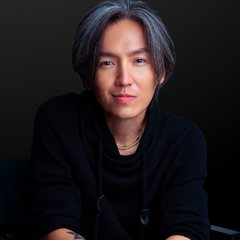
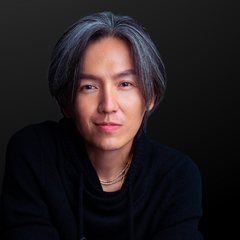
Add files via upload

diff --git a/index.html b/index.html
@@ -233,7 +233,14 @@ footer .w{display:flex;justify-content:space-between;gap:12px;flex-wrap:wrap}
 <article class="lc" id="lc-p-bao"><div class="lp"><div class="av"><img alt="Baobaochow" loading="lazy" src="img/sp-p-baobaochow.jpg"/></div><div><h4>Baobaochow</h4><small>Photographer</small></div></div><div class="lm"><div class="ltag">True Portrait</div><h5>Natural Light Portraits</h5><p>Good portraits start with finding the right light. Learn to spot soft, flattering light, place your subject in it, and keep skin tones and mood true to the moment.</p></div><div class="lr"><div class="ld"><b>15 NOV</b></div><div class="lt2">3.00PM&ndash;7.00PM</div><div class="ll">Robert&rsquo;s Wooden House, Sibu, Sarawak</div></div></article>
 <div class="lreg"><a class="btn" href="https://tinyurl.com/5ncrpnzc" rel="noopener" target="_blank">Register Here</a></div>
 </div></div>
-
+<div class="lt" id="zoom"><div class="eyebrow">Zoom Theme &middot; 21&ndash;22 Nov 2026</div><h3>True Zoom</h3><p class="sub">Five masterclasses reach further, from distant landscapes and wildlife to people caught at the peak of the moment.</p><div class="lcs">
+<article class="lc" id="lc-z-bojio"><div class="lp"><div class="av"><img alt="Bojio杰哥" loading="lazy" src="img/sp-z-bojio.jpg"/></div><div><h4>Bojio杰哥</h4><small>Photographer</small></div></div><div class="lm"><div class="ltag">True Zoom</div><h5>Get Closer Without Moving</h5><p>Some subjects are too far, too busy or too shy to walk up to. Learn to use zoom to isolate what matters, keep the frame clean, and capture natural moments from a distance without disturbing the scene.</p></div><div class="lr"><div class="ld"><b>21 NOV</b></div><div class="lt2">10.00AM&ndash;2.00PM</div><div class="ll">Zoo Johor + Sama-sama Cuisine, Johor Bahru</div></div></article>
+<article class="lc" id="lc-z-reez"><div class="lp"><div class="av"><img alt="Reez" loading="lazy" src="img/sp-z-reez.jpg"/></div><div><h4>Reez</h4><small>Photographer</small></div></div><div class="lm"><div class="ltag">True Zoom</div><h5>Seeing Landscapes Differently</h5><p>Go beyond the wide shot. Learn to use zoom and different focal lengths to bring distant scenery closer, highlight hidden details, and create stronger landscape compositions.</p></div><div class="lr"><div class="ld"><b>21 NOV</b></div><div class="lt2">2.00PM&ndash;6.00PM</div><div class="ll">Pavilion Bukit Bintang + Lookout Point @ Changkat Tunku, Kuala Lumpur</div></div></article>
+<article class="lc" id="lc-z-kelvin"><div class="lp"><div class="av"><img alt="Kelvin Chan" loading="lazy" src="img/sp-c-kelvin.jpg"/></div><div><h4>Kelvin Chan</h4><small>Photographer</small></div></div><div class="lm"><div class="ltag">True Zoom</div><h5>See Further, Frame Better</h5><p>From a bird on a branch to a boat on the river, zoom brings distant subjects into a clean, simple frame. Learn to spot what is worth reaching for, compose it with intent, and keep detail sharp at a distance.</p></div><div class="lr"><div class="ld"><b>21 NOV</b></div><div class="lt2">3.00PM&ndash;6.30PM</div><div class="ll">GoldenBay Hotel Bintulu</div></div></article>
+<article class="lc" id="lc-z-haziq"><div class="lp"><div class="av"><img alt="Haziq Zuki" loading="lazy" src="img/sp-haziqzuki.jpg"/></div><div><h4>Haziq Zuki</h4><small>Photographer</small></div></div><div class="lm"><div class="ltag">True Zoom</div><h5>Catching the Moment</h5><p>Zoom lets you capture people in action without stepping into the scene. Learn to anticipate movement, track your subject from a distance and press the shutter at the peak of the moment.</p></div><div class="lr"><div class="ld"><b>21 NOV</b></div><div class="lt2">4.00PM&ndash;8.30PM</div><div class="ll">Ferringhi Heart Beach Club, Penang</div></div></article>
+<article class="lc" id="lc-z-wanxin"><div class="lp"><div class="av"><img alt="Wan Xin" loading="lazy" src="img/sp-z-wanxin.jpg"/></div><div><h4>Wan Xin</h4><small>Photographer</small></div></div><div class="lm"><div class="ltag">True Zoom</div><h5>Zoom Into Details</h5><p>Sometimes, the best way to capture a moment is to get closer without being seen. Zoom allows us to observe quietly, anticipate the moment, and preserve it just as it happens.</p></div><div class="lr"><div class="ld"><b>22 NOV</b></div><div class="lt2">9.00AM&ndash;1.00PM</div><div class="ll">Tasik Cermin Ipoh</div></div></article>
+<div class="lreg"><a class="btn" href="https://tinyurl.com/5ncrpnzc" rel="noopener" target="_blank">Register Here</a></div>
+</div></div>
 
 </div></section>
 <section class="snap" id="snap"><div class="w">
@@ -476,12 +483,21 @@ var DATA={"content/copy.json":{
     },
     {
       "date": "2026-11-21",
-      "end_date": "",
+      "end_date": "2026-11-22",
       "title": "Zoom",
       "type": "class",
-      "time": "",
-      "venue": "",
-      "status": "upcoming"
+      "time": "True Zoom",
+      "venue": "5 locations nationwide",
+      "locations": [
+        {"name": "Johor Bahru", "target": "lc-z-bojio"},
+        {"name": "Kuala Lumpur", "target": "lc-z-reez"},
+        {"name": "Bintulu", "target": "lc-z-kelvin"},
+        {"name": "Penang", "target": "lc-z-haziq"},
+        {"name": "Ipoh", "target": "lc-z-wanxin"}
+      ],
+      "register": "https://tinyurl.com/5ncrpnzc",
+      "details": "zoom",
+      "status": "open"
     },
     {
       "date": "2026-11-28",
